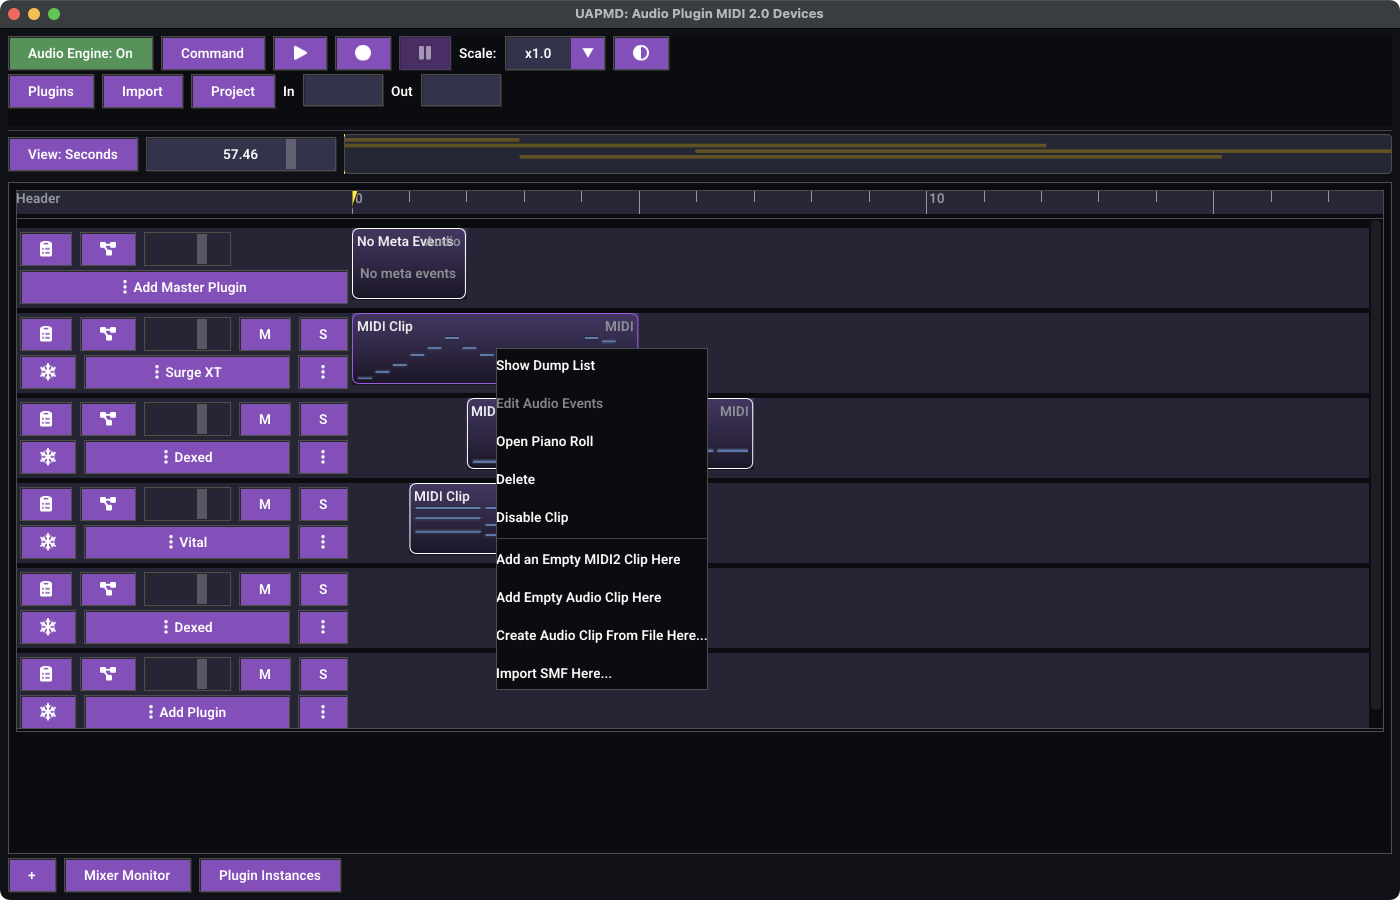
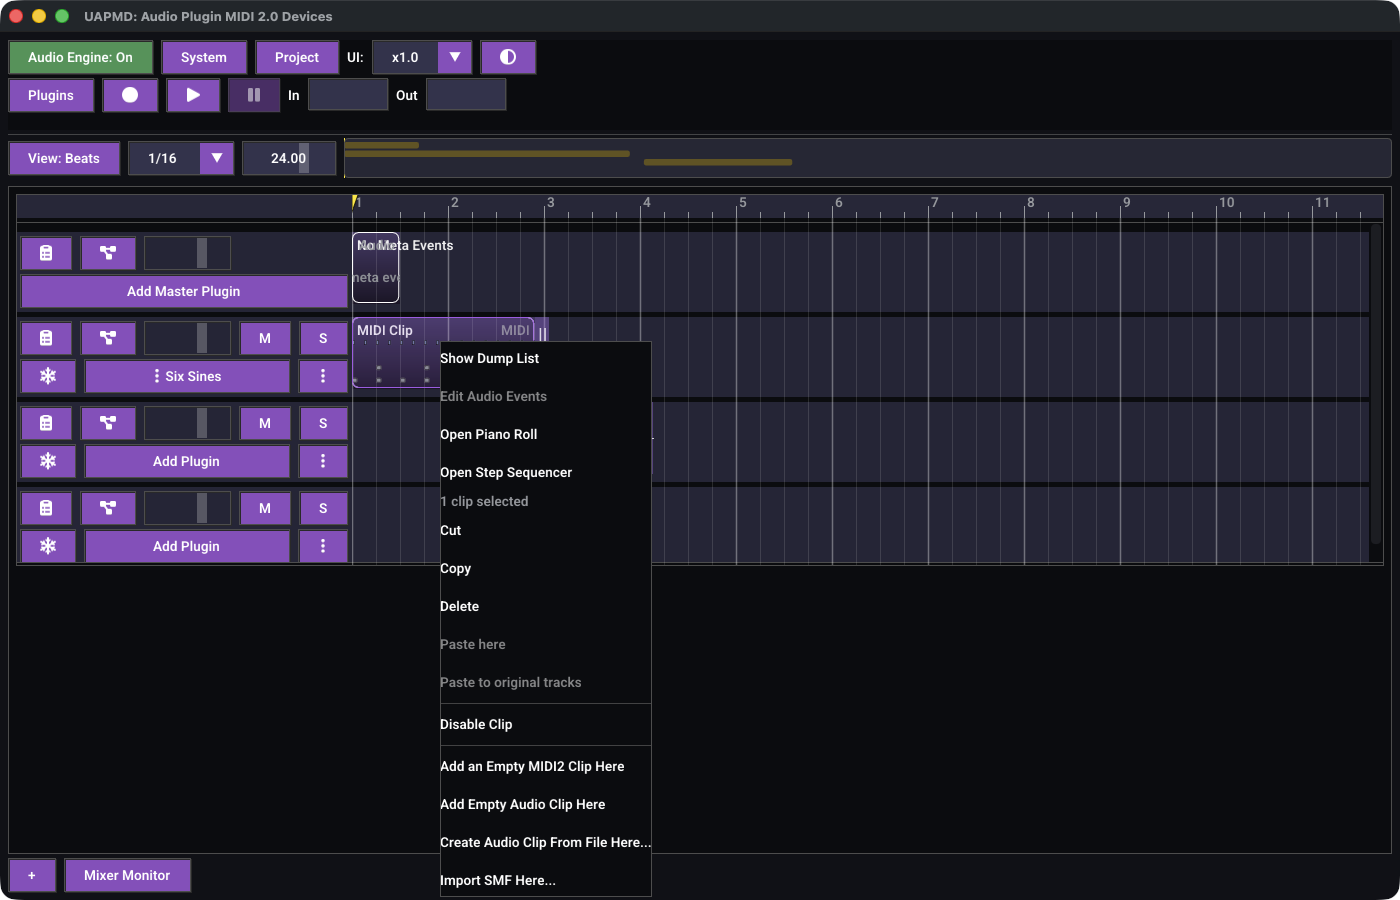
update AI slop user manual. (Claude)

diff --git a/docs/users/UAPMD_APP.md b/docs/users/UAPMD_APP.md
@@ -72,6 +72,10 @@ The leftmost button reports and toggles the audio engine. It is **green when on*
 off**. Turning it off releases the audio device and disables the transport buttons; turning it
 back on re-activates the device and the plugins on it.
 
+If parallel processing fails -- audio workers miss their deadline, or a plugin fails on a worker
+-- the button reads `Audio Engine: Restart`. Its tooltip says what to change in
+[Settings](#settings) (fewer workers, a larger buffer, or `Serial`); click it to restart.
+
 ### System
 
 ![The System menu](../images/uapmd-app-guide-command-menu.png)
@@ -86,7 +90,10 @@ back on re-activates the device and the plugins on it.
 - **Device Settings**, **UAPMD Addins**, **Scripting**, and **MCP Settings** -- toggles
   for the four floating panels described later in this document. A check mark shows which of
   them are open.
-- **JSFX Settings** and **application commands contributed by addins**, below the separator.
+- **Application commands contributed by addins**, below the separator: **JSFX Settings**
+  ([JSFX effects](#jsfx-effects)), **Virtual MIDI Devices** ([virtual MIDI devices](#virtual-midi-devices)),
+  and **Augene2 Integration** ([MML import](#mml-import-augene2)), depending on the build and
+  the enabled addins.
 
 ### Project
 
@@ -270,7 +277,9 @@ The desktop has no press-and-hold menu, since a held press is how a drag starts 
 - **Show Dump List** -- the [MIDI event list editor](#the-midi-event-list).
 - **Edit Audio Events** -- the audio marker and warp editor. Enabled for audio clips only.
 - **Open Piano Roll** -- the [piano roll editor](#the-piano-roll).
-- **Cut**, **Copy**, and **Delete** apply to all selected clips. **Disable Clip** applies to the clicked clip.
+- **Open Step Sequencer** -- the [step sequencer](#the-step-sequencer). Enabled for MIDI clips only.
+- **Cut**, **Copy**, and **Delete** apply to all selected clips. **Disable Clip** / **Enable Clip**
+  applies to the clicked clip; a disabled clip stays on the timeline but is not played.
 - **Paste here** inserts copied clips relative to the clicked track, preserving their track offsets.
   For multi-track copies, its submenu previews the source-to-destination track mapping, destination
   plugins, and clip counts. Choose **Paste into these tracks** to apply it.
@@ -331,6 +340,25 @@ Selecting a note fills the lower pane with that note's per-note events, where yo
 event before the selected one, edit its type and value, or delete it. With no note selected the
 pane lists the clip-level automation events instead.
 
+### The step sequencer
+
+![The step sequencer](../images/uapmd-app-guide-step-sequencer.png)
+
+**Open Step Sequencer** edits a MIDI clip as a grid of steps: one row per note, one button per
+step. The toolbar sets the **Note set** (`GM Drums` or `All Notes`), the pattern **Steps**
+(1-128), its loop **Repetitions** (1-64), the step **Division** (`1/1` to `1/32`), and the
+**Default Velocity** and **Default Gate** given to newly activated steps. The header reports
+the pattern length and the expanded length in ticks.
+
+Clicking a step toggles it. An active step opens an inline editor for its velocity and a MIDI 2.0
+note attribute type and value; double-click a slider to type a value. Edits apply to the clip
+immediately, and `Reload` re-reads the clip. The **Velocity / automation** pane below the grid
+shows the velocity of each active note as a bar.
+
+The step sequencer records its pattern in the clip as Flex Data metadata. Opening a clip that was
+not made by the step sequencer first asks for confirmation, since editing it may discard notes or
+other data the step grid cannot represent; opening alone changes nothing.
+
 ### The MIDI event list
 
 ![The MIDI event list editor](../images/uapmd-app-guide-midi-event-list.png)
@@ -378,6 +406,25 @@ offers `Clear blocklist`, `Show scan report`, `Copy as Markdown`, and a table pr
 instead targets that track, and from the master track's entry it targets the master track. When
 a new track is created you can give its virtual UMP device a name and pick the MIDI API to
 expose it on.
+
+### JSFX effects
+
+Where the build includes JSFX support, REAPER JSFX effects appear in the plugin list as the
+`JSFX` format, and open their own graphics in a JSFX editor panel. `System` -> `JSFX Settings`
+manages where they come from:
+
+![JSFX Settings](../images/uapmd-app-guide-jsfx-settings.png)
+
+- **Copy effects in** -- `Copy in files or a .zip...` copies effect files into the app's own
+  content folder, optionally under a name given in `Copy into`.
+- **Where effects are looked for** -- register folders to search, `Re-read registered folders`,
+  and `Also look in this platform's usual locations`. Each listed folder has a `Remove` button.
+
+- **Plugin list** -> **Duplicate scripts** -- `Prefer latest version` collapses copies whose paths
+  differ only by a semantic-version directory, `Hide exact copies only`, or `Show every script`.
+  Hidden copies stay available to projects that use them.
+
+Every change rescans, and the window reports how many JSFX effects are available.
 
 ### The plugin menu on a track
 
@@ -500,6 +547,15 @@ A progress bar sits above **Start Render**, which becomes a stop button while a 
 
 Changing the audio device restarts the engine, which reactivates every loaded plugin.
 
+On desktop, two more controls govern parallel processing:
+
+- **Audio Workers** -- `Serial`, or the number of worker threads used to process independent
+  tracks concurrently. The default is a quarter of the CPU count, up to four. Graph providers or
+  extensions that are not compatible with parallel processing keep their tracks serial.
+- **Stop audio engine on deadline overrun** -- off by default: late blocks are silenced until the
+  workers catch up, then processing resumes. Turn it on to stop the engine instead and require a
+  [restart](#audio-engine). Overruns are always logged.
+
 
 ## Addins
 
@@ -513,8 +569,26 @@ Addins ship built-in (the piano roll, the MIDI event list, ARA support, the Demu
 BS-Roformer stem separators, Basic Pitch), or come from a shared library placed in one of the
 directories named at the top of the window.
 
+ARA support covers ARA-capable plugins on desktop, and AAP plugins that advertise the ARA
+extension on Android.
+
 Disabling an addin removes what it contributes -- turn off both stem separators, for example,
 and `Import Split Audio Tracks` disappears from the `Project` menu.
+
+
+### MML import (Augene2)
+
+Where the build includes Augene2, `System` -> `Augene2 Integration` compiles MML (Music Macro
+Language) sources into clips of the current project.
+
+![Augene2 Integration](../images/uapmd-app-guide-augene2.png)
+ `Import MMLs...` adds compiled inputs and
+`Import included MML...` adds files they include; `Resource folder` optionally names where to
+resolve their resources. Each source is either linked to an external file or kept as a bundled
+copy in the project, with `Relink...` and `Remove`. **Compile** regenerates the clips; on failure
+the previous clips are kept and the diagnostics are listed. `Track mapping` shows which track
+each MML track went to. Automatic synchronization is not available yet, so press Compile after
+editing linked files.
 
 
 ## Automating the app

diff --git a/docs/users/USERS_GUIDE.md b/docs/users/USERS_GUIDE.md
@@ -4,7 +4,7 @@ uapmd-app is primarily an audio plugin host which is demonstrating various audio
 It runs on desktop (Windows / macOS / Linux), Android, iOS (tested only on simulators / rarely tested), and Web. It features:
 
 - overall audio plugin hosting
-  - and register them as virtual MIDI 2.0 UMP devices.
+  - and optionally register them as virtual MIDI 2.0 UMP devices (opt-in; see [Using virtual MIDI devices](USE_VIRTUAL_MIDI_DEVICES.md)).
 - multi-track sequencing of audio and MIDI 2.0 clips, over simple linear audio plugin graph
   - can import MIDI 1.0 SMF (translated to MIDI2 clips) and audio files into split tracks (source separation)
 - save as a project (of audio and MIDI 2.0 sequences) and load ones
@@ -28,7 +28,7 @@ You find ways to create the individual items, and/or "build your own DAW" on top
 
 ### set up audio plugins you want to use
 
-On desktop, uapmd-app makes use of audio plugins in VST3/AU/LV2/CLAP format, so just install whatever you would like to use.
+On desktop, uapmd-app makes use of audio plugins in VST3/AU/LV2/CLAP format (and JSFX effects, where the build includes it), so just install whatever you would like to use.
 There may be plugins that do not work with uapmd-app, but it's hard to tell in prior.
 We have some list of working and not-working plugins on [the wiki page](https://github.com/atsushieno/uapmd/wiki/KnownToWork).
 

diff --git a/docs/users/USE_VIRTUAL_MIDI_DEVICES.md b/docs/users/USE_VIRTUAL_MIDI_DEVICES.md
@@ -8,6 +8,10 @@ Android does not support platform-level dynamic virtual MIDI 2.0 endpoints; inst
 
 To use an audio plugin as a virtual MIDI 2.0 device, you have to first instantiate it on a track on uapmd-app.
 
+Virtual MIDI 2.0 devices are not created by default. Open `System` -> `Virtual MIDI Devices` and either
+press `Enable` on the plugin instance's row (or `Enable All`), or check `Create virtual MIDI 2.0 devices automatically`
+before instantiating plugins. See [the uapmd-app guide](UAPMD_APP.md#virtual-midi-devices) for details.
+
 Any plugin type works i.e. it is not limited to instruments.
 
 ## Connect your app to the virtual device as a client
